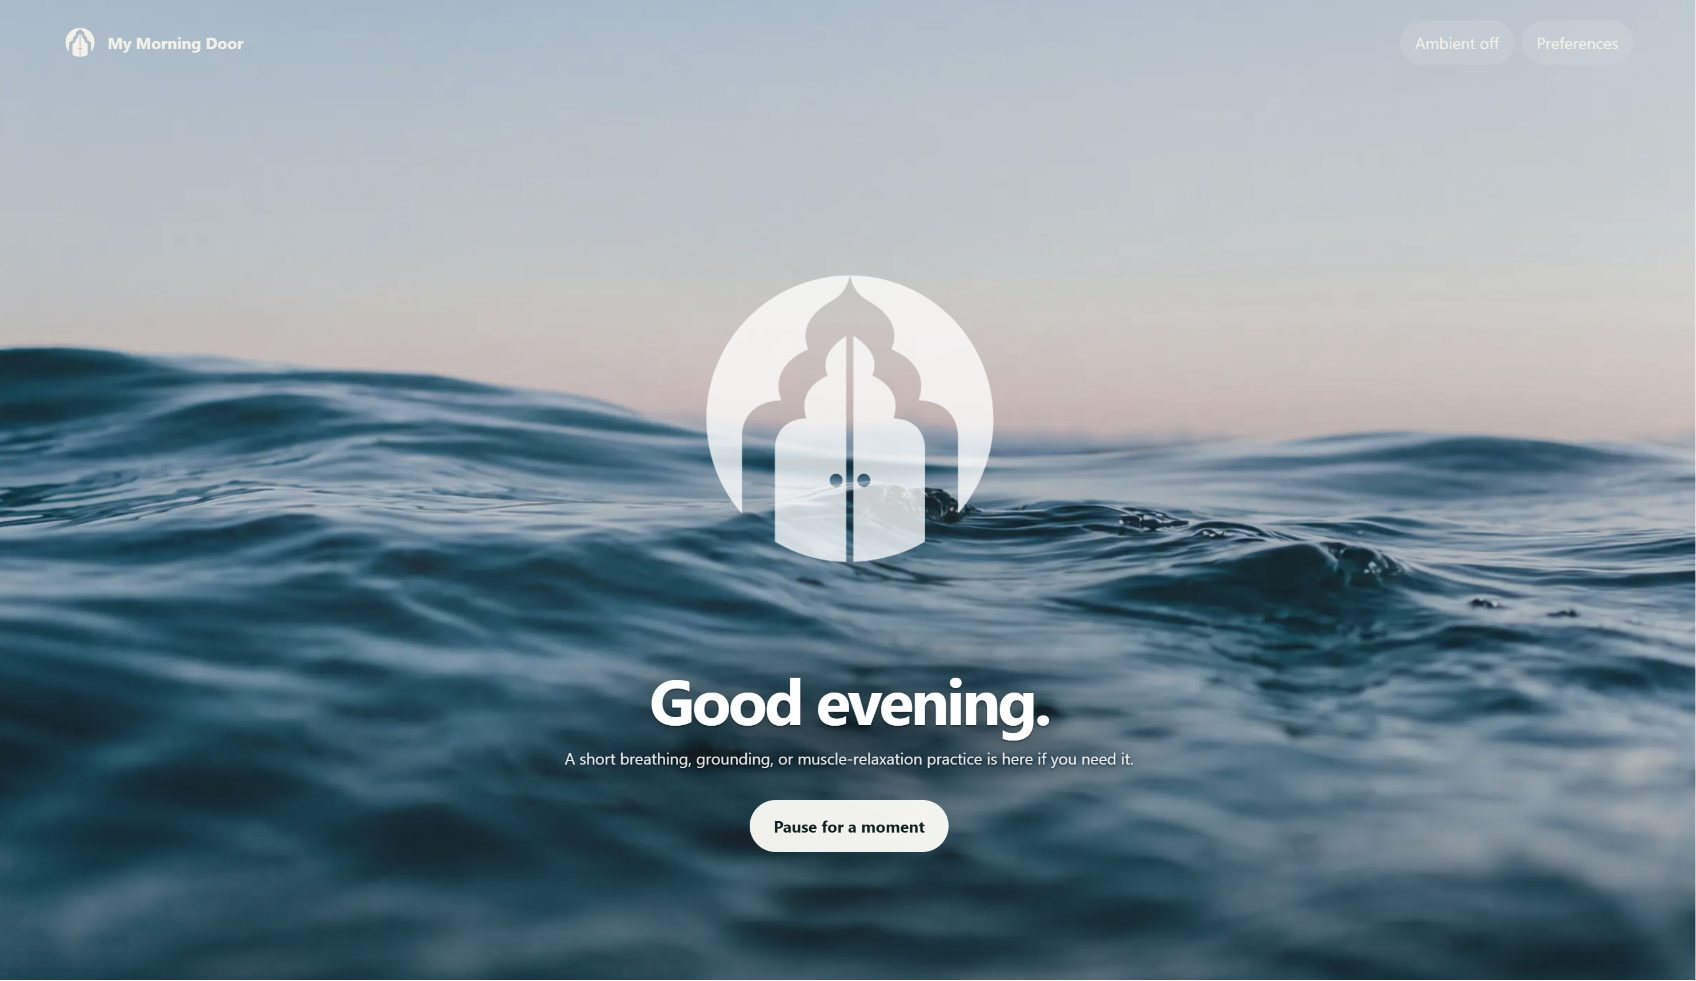
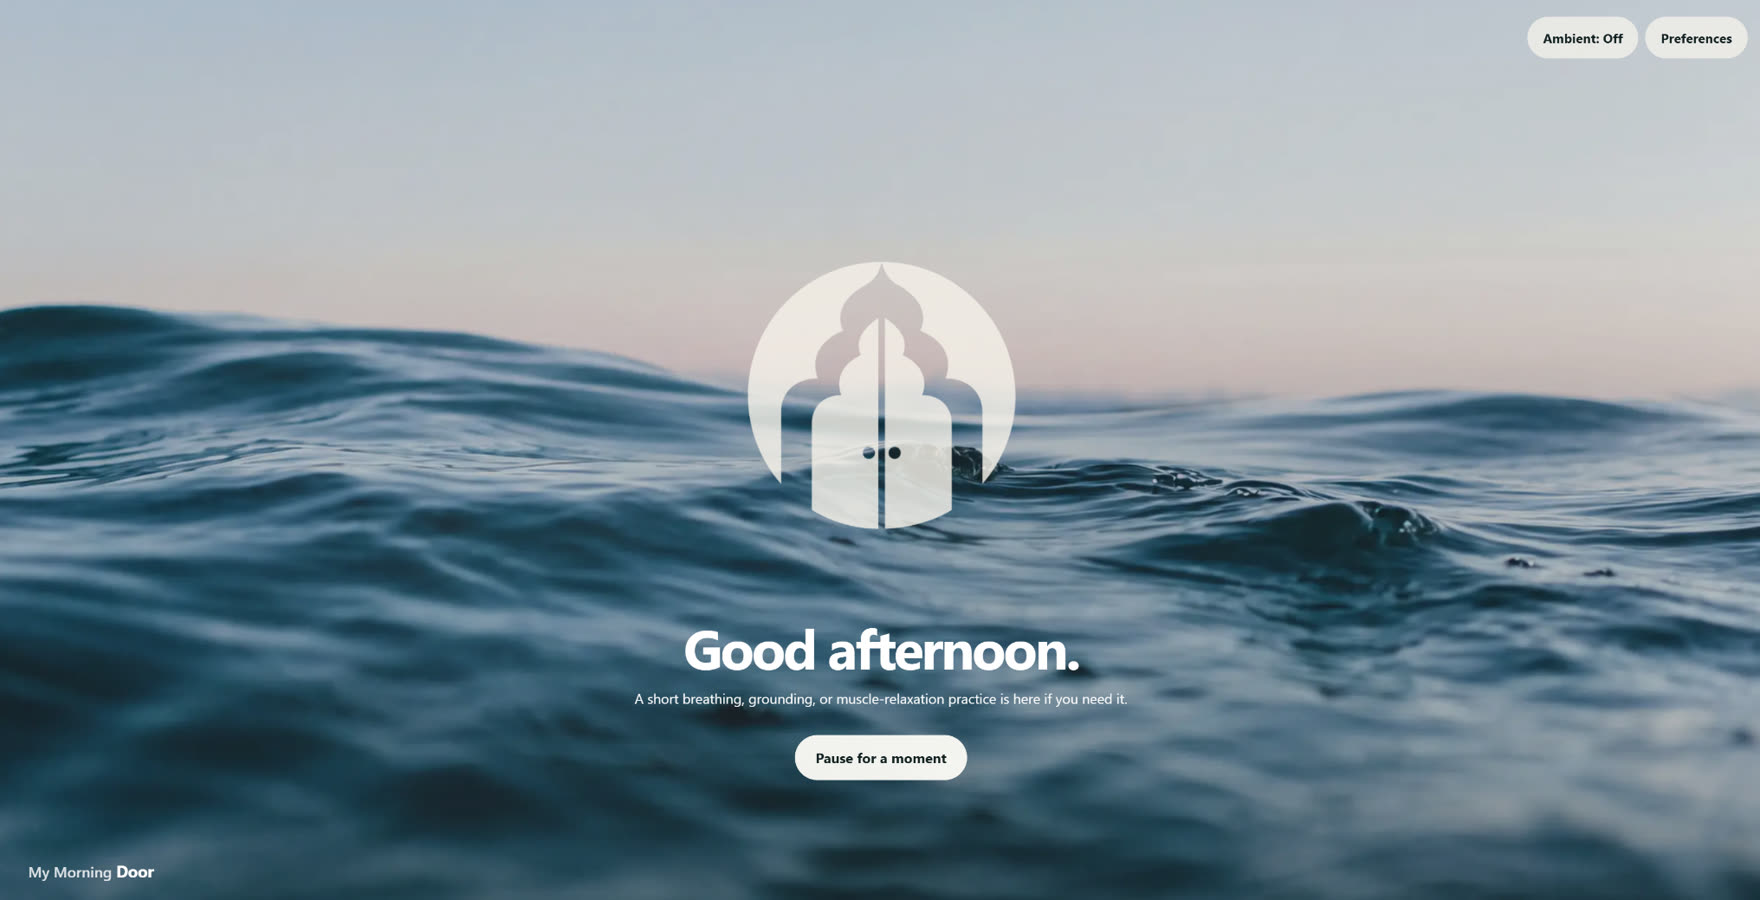
Refresh the My Morning Door case study screenshots
Update the desktop resting and arrival shots and the mobile pair to the
current interface: the wordmark now sits in the footer, the Install
control and the Ambient: Off label are present. Replace the old breathing
rhythm phone shot (still showing the previous header) with the resting
tab, so the phone pair stays visually consistent. Add a preferences
figure (background and ambient sound) from the two new captures, and
renumber the later figures. All six new images are optimized web JPGs.

diff --git a/case-study-my-morning-door.html b/case-study-my-morning-door.html
@@ -843,7 +843,7 @@ body::after {
 </div>
 
 <figure class="lead-shot hero-wrap">
-  <img src="mmd-resting.jpg" alt="My Morning Door open in a new tab: the breathing mark over a calm ocean at dusk, the greeting 'Good evening.' and a single 'Pause for a moment' button" width="1696" height="981" fetchpriority="high">
+  <img src="mmd-resting.jpg" alt="My Morning Door open in a new tab: the breathing mark over a calm ocean at dusk, the greeting 'Good afternoon.' and a single 'Pause for a moment' button" width="1760" height="900" fetchpriority="high">
   <figcaption>Fig. 01: What a new tab looks like once the extension is running.</figcaption>
 </figure>
 
@@ -1060,7 +1060,7 @@ body::after {
   <div class="wide screen-block">
     <div class="screen-row">
       <figure class="figure">
-        <img src="mmd-arrival.jpg" alt="My Morning Door arrival screen: a frosted-glass panel headed 'Choose your pause' over a calm ocean, offering Breathing, Sensory Grounding and Seated Muscle Release, with a 'Continue without a practice' link" width="1760" height="1100" loading="lazy">
+        <img src="mmd-arrival.jpg" alt="My Morning Door arrival screen: a frosted-glass panel headed 'Choose your pause' over a calm ocean, offering Breathing, Sensory Grounding and Seated Muscle Release, with a 'Continue without a practice' link" width="1760" height="898" loading="lazy">
         <figcaption>Fig. 03: The arrival ritual</figcaption>
       </figure>
       <div class="caption">
@@ -1083,10 +1083,10 @@ body::after {
   <div class="wide screen-block">
     <figure class="phone-fig">
       <div class="phone-pair">
+        <img src="mmd-resting-mobile.jpg" alt="My Morning Door on a phone: the breathing mark over a calm ocean, the greeting 'Good evening.' and a single 'Pause for a moment' button" width="820" height="1782" loading="lazy">
         <img src="mmd-arrival-mobile.jpg" alt="My Morning Door arrival on a phone: the breathing circle above a full-width 'Choose your pause' card listing Breathing, Sensory Grounding and Seated Muscle Release" width="820" height="1782" loading="lazy">
-        <img src="mmd-breathing-mobile.jpg" alt="My Morning Door breathing practice on a phone: 'Choose a breathing rhythm' offering Longer Exhale or Box Breathing" width="820" height="1782" loading="lazy">
       </div>
-      <figcaption>Fig. 04: On a phone, arrival then a practice</figcaption>
+      <figcaption>Fig. 04: The resting tab, then the pause, on a phone</figcaption>
     </figure>
     <div class="caption">
       <p class="fig-eyebrow">Responsive</p>
@@ -1096,6 +1096,25 @@ body::after {
       <p>The mobile web version extends that same pause to a smaller screen without turning the
         product into a full meditation app like Calm or Insight Timer. The goal was to keep the
         ritual optional and easy to leave.</p>
+    </div>
+  </div>
+
+  <div class="wide screen-block">
+    <figure class="phone-fig">
+      <div class="phone-pair">
+        <img src="mmd-prefs-background.jpg" alt="My Morning Door preferences on a phone: a Background section offering Open water, Forest canopy, Misty forest and Rocky shoreline, with an option to use your own photograph" width="820" height="1782" loading="lazy">
+        <img src="mmd-prefs-sound.jpg" alt="My Morning Door preferences on a phone: an Ambient sound section offering Ocean, Soft rain, Forest and Brown noise with a volume slider, and Voice guidance off by default" width="820" height="1782" loading="lazy">
+      </div>
+      <figcaption>Fig. 05: The preferences panel on a phone</figcaption>
+    </figure>
+    <div class="caption">
+      <p class="fig-eyebrow">Personalisation</p>
+      <h3>A few quiet choices</h3>
+      <p>Preferences keeps personalisation shallow on purpose. The background can be one of four
+        built-in scenes or a photograph of the user's own, and an ambient sound is offered but only
+        begins once it is turned on.</p>
+      <p>Voice guidance stays off until it is asked for. The intent was to let the page be adjusted
+        without becoming another set of settings to manage.</p>
     </div>
   </div>
 </section>
@@ -1169,7 +1188,7 @@ body::after {
     <div class="screen-row">
       <figure class="figure is-natural">
         <img src="mmd-arrival-desert.jpg" alt="The same 'Choose your pause' panel over a pale desert scene, with dark interface text instead of the light text used over the ocean" width="1693" height="981" loading="lazy">
-        <figcaption>Fig. 05: The same panel over a lighter scene</figcaption>
+        <figcaption>Fig. 06: The same panel over a lighter scene</figcaption>
       </figure>
       <div class="caption">
         <p class="fig-eyebrow">Adaptive contrast</p>
@@ -1229,7 +1248,7 @@ body::after {
           <div class="flow-node is-edge"><b>Shared audio engine</b><span class="sub">Crossfades loop + manages session</span></div>
         </li>
       </ol>
-      <figcaption>Fig. 06: How a sound command reaches the audio engine</figcaption>
+      <figcaption>Fig. 07: How a sound command reaches the audio engine</figcaption>
     </figure>
   </div>
 </section>
@@ -1278,7 +1297,7 @@ body::after {
     <div class="screen-row">
       <figure class="figure is-natural">
         <img src="mmd-store-listing.jpg" alt="The My Morning Door listing on the Chrome Web Store, showing the door icon, an Add to Chrome button, the Extension and Well-being categories, and five screenshots of the extension" width="1512" height="1004" loading="lazy">
-        <figcaption>Fig. 07: The published listing</figcaption>
+        <figcaption>Fig. 08: The published listing</figcaption>
       </figure>
       <div class="caption">
         <p class="fig-eyebrow">Shipped</p>
